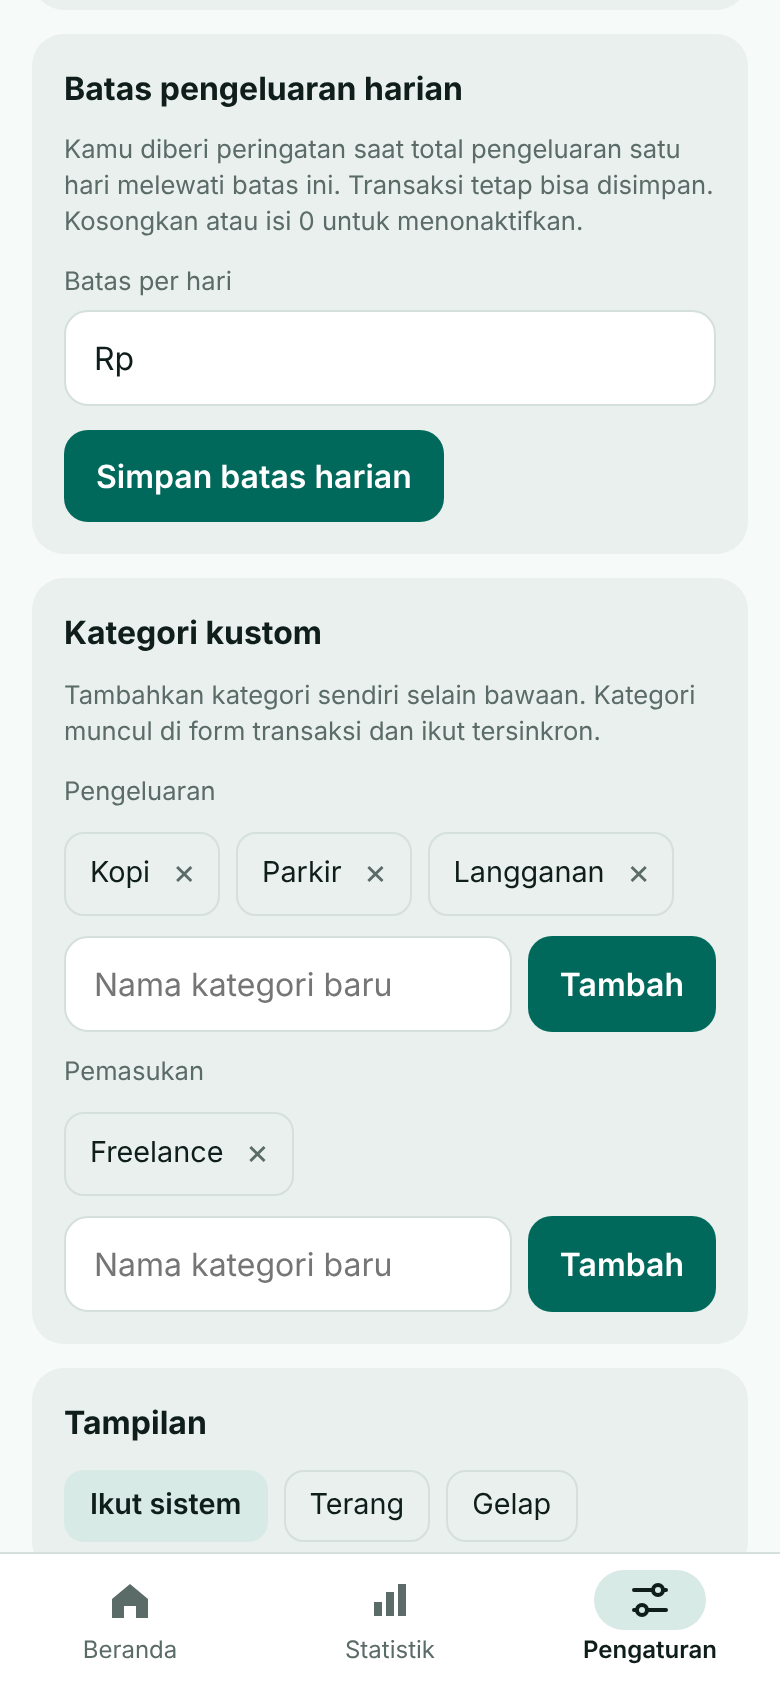
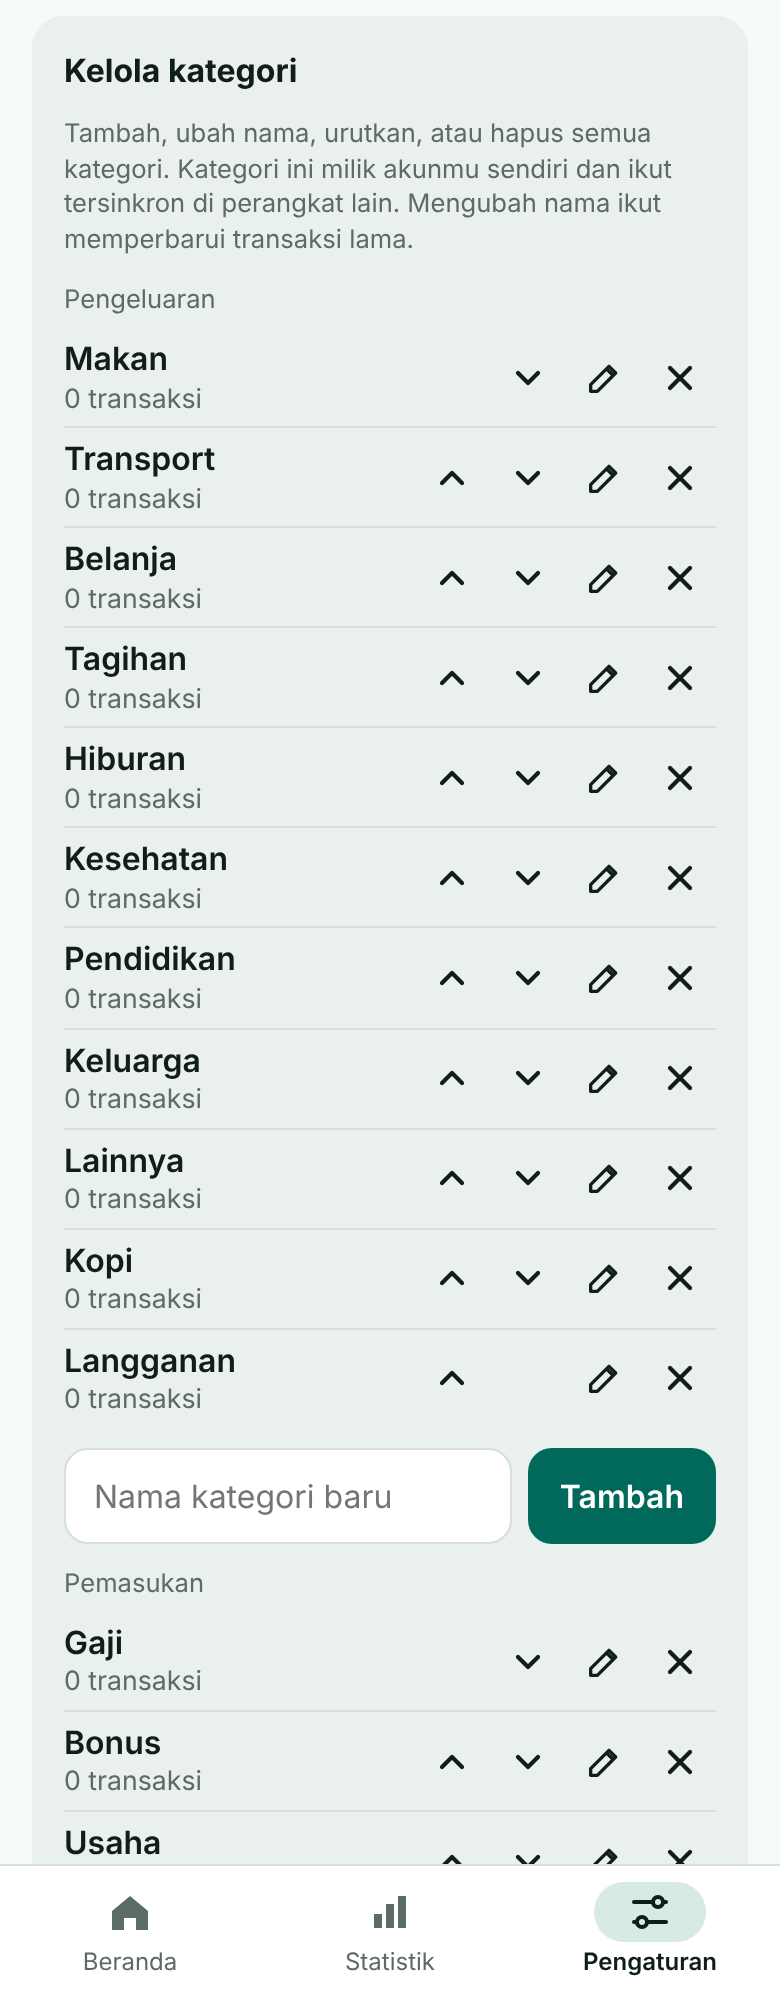
Kelola semua kategori per akun: ubah nama, urutkan, hapus bawaan; isolasi per user
Claude-Session: https://claude.ai/code/session_01PoaaqTZ6TSVxPmi1eVRVKY

diff --git a/app.js b/app.js
@@ -12,7 +12,7 @@ const BASE_CATEGORIES = {
   INCOME: ['Gaji', 'Bonus', 'Usaha', 'Investasi', 'Lainnya']
 };
 
-const MAX_CUSTOM = 20;     // maksimal kategori kustom per jenis
+const MAX_CATS = 30;       // maksimal kategori per jenis
 const MAX_CAT_LEN = 20;    // maksimal panjang nama kategori
 
 const MONTHS = ['Januari', 'Februari', 'Maret', 'April', 'Mei', 'Juni', 'Juli', 'Agustus', 'September', 'Oktober', 'November', 'Desember'];
@@ -25,6 +25,10 @@ const ICONS = {
   settings: '<g fill="none" stroke="currentColor" stroke-width="2" stroke-linecap="round"><path d="M4 7h9M19 7h1M4 17h1M11 17h9"/><circle cx="16" cy="7" r="2.5"/><circle cx="8" cy="17" r="2.5"/></g>',
   plus: '<path d="M12 5v14M5 12h14" fill="none" stroke="currentColor" stroke-width="2.5" stroke-linecap="round"/>',
   left: '<path d="M15 6l-6 6 6 6" fill="none" stroke="currentColor" stroke-width="2.5" stroke-linecap="round" stroke-linejoin="round"/>',
+  up: '<path d="M6 15l6-6 6 6" fill="none" stroke="currentColor" stroke-width="2.5" stroke-linecap="round" stroke-linejoin="round"/>',
+  down: '<path d="M6 9l6 6 6-6" fill="none" stroke="currentColor" stroke-width="2.5" stroke-linecap="round" stroke-linejoin="round"/>',
+  edit: '<path d="M4 20h4L19 9l-4-4L4 16zM13.5 6.5l4 4" fill="none" stroke="currentColor" stroke-width="2" stroke-linecap="round" stroke-linejoin="round"/>',
+  close: '<path d="M6 6l12 12M18 6L6 18" fill="none" stroke="currentColor" stroke-width="2.5" stroke-linecap="round"/>',
   right: '<path d="M9 6l6 6-6 6" fill="none" stroke="currentColor" stroke-width="2.5" stroke-linecap="round" stroke-linejoin="round"/>'
 };
 const icon = (name) => '<svg class="i" viewBox="0 0 24 24" aria-hidden="true">' + ICONS[name] + '</svg>';
@@ -66,32 +70,52 @@ function uuid() {
 }
 
 let transactions = store.load('kk.tx', []);
-const defaultSettings = () => ({ budget: 0, dailyLimit: 0, openingBalance: 0, theme: 'system', customCats: { EXPENSE: [], INCOME: [] } });
-let settings = normalizeSettings(Object.assign(defaultSettings(), store.load('kk.settings', {})));
+const defaultCats = () => ({ EXPENSE: BASE_CATEGORIES.EXPENSE.slice(), INCOME: BASE_CATEGORIES.INCOME.slice() });
+const defaultSettings = () => ({ budget: 0, dailyLimit: 0, openingBalance: 0, theme: 'system', cats: defaultCats() });
+let settings = (() => {
+  const stored = store.load('kk.settings', {});
+  const base = defaultSettings();
+  if (!stored.cats) delete base.cats; // data versi lama (customCats) dimigrasi di normalizeSettings
+  const st = normalizeSettings(Object.assign(base, stored));
+  if (Object.keys(stored).length && !stored.cats) store.save('kk.settings', st); // simpan hasil migrasi
+  return st;
+})();
 
 function cleanCatList(list) {
   const out = [];
   (Array.isArray(list) ? list : []).forEach((n) => {
-    const name = String(n || '').trim().slice(0, MAX_CAT_LEN);
+    const name = String(n || '').trim().replace(/\s+/g, ' ').slice(0, MAX_CAT_LEN);
     if (name && !out.some((x) => x.toLowerCase() === name.toLowerCase())) out.push(name);
   });
-  return out.slice(0, MAX_CUSTOM);
+  return out.slice(0, MAX_CATS);
 }
 function normalizeSettings(st) {
   st.openingBalance = Math.max(0, Number(st.openingBalance) || 0);
-  const c = st.customCats || {};
-  st.customCats = { EXPENSE: cleanCatList(c.EXPENSE), INCOME: cleanCatList(c.INCOME) };
+  if (!st.cats) {
+    // Migrasi dari versi lama: kategori bawaan + kategori kustom ("Lainnya" tetap di akhir)
+    const c = st.customCats || {};
+    const merge = (t) => BASE_CATEGORIES[t].filter((x) => x !== 'Lainnya').concat(cleanCatList(c[t])).concat('Lainnya');
+    st.cats = { EXPENSE: merge('EXPENSE'), INCOME: merge('INCOME') };
+  }
+  delete st.customCats;
+  const d = defaultCats();
+  const exp = cleanCatList(st.cats.EXPENSE);
+  const inc = cleanCatList(st.cats.INCOME);
+  st.cats = { EXPENSE: exp.length ? exp : d.EXPENSE, INCOME: inc.length ? inc : d.INCOME };
   return st;
 }
-const hasCustomCats = () => settings.customCats.EXPENSE.length + settings.customCats.INCOME.length > 0;
-const hasSettings = () => settings.budget > 0 || settings.openingBalance > 0 || settings.dailyLimit > 0 || settings.theme !== 'system' || hasCustomCats();
+// Kategori milik akun: dibaca dari kolom custom_categories ({ v: 2, EXPENSE, INCOME }, atau format lama berisi kategori tambahan saja)
+function catsFromServer(obj) {
+  if (obj && obj.v === 2) return normalizeSettings({ cats: { EXPENSE: obj.EXPENSE, INCOME: obj.INCOME } }).cats;
+  return normalizeSettings({ customCats: obj || {} }).cats;
+}
+const catsChanged = () => JSON.stringify(settings.cats) !== JSON.stringify(defaultCats());
+const hasSettings = () => settings.budget > 0 || settings.openingBalance > 0 || settings.dailyLimit > 0 || settings.theme !== 'system' || catsChanged();
 
-// Daftar kategori bawaan + kustom. "Lainnya" selalu di paling akhir.
+// Daftar kategori milik pengguna. `extra` = kategori transaksi lama yang sudah tidak ada di daftar (tetap ditampilkan saat mengubah transaksi).
 function categoriesFor(type, extra) {
-  const base = BASE_CATEGORIES[type].filter((c) => c !== 'Lainnya');
-  const all = base.concat(settings.customCats[type]);
-  if (extra && extra !== 'Lainnya' && !all.some((c) => c.toLowerCase() === extra.toLowerCase())) all.push(extra);
-  all.push('Lainnya');
+  const all = settings.cats[type].slice();
+  if (extra && !all.some((c) => c.toLowerCase() === extra.toLowerCase())) all.push(extra);
   return all;
 }
 const ui = { tab: 'home', view: store.load('kk.view', 'month') === 'day' ? 'day' : 'month', month: currentMonthIndex(), day: Date.now(), filter: 'all', query: '' };
@@ -836,28 +860,69 @@ document.addEventListener('click', (e) => {
       if (!name) { toast('Tulis nama kategori dulu'); break; }
       if (name.length > MAX_CAT_LEN) { toast('Maksimal ' + MAX_CAT_LEN + ' karakter'); break; }
       if (categoriesFor(type).some((c) => c.toLowerCase() === name.toLowerCase())) { toast('Kategori sudah ada'); break; }
-      if (settings.customCats[type].length >= MAX_CUSTOM) { toast('Maksimal ' + MAX_CUSTOM + ' kategori kustom'); break; }
-      settings.customCats[type].push(name);
+      if (settings.cats[type].length >= MAX_CATS) { toast('Maksimal ' + MAX_CATS + ' kategori per jenis'); break; }
+      settings.cats[type].push(name);
       saveSettings();
       render();
       toast('Kategori ditambahkan');
       break;
     }
+    case 'rename-cat': {
+      const type = el.dataset.type === IN ? IN : OUT;
+      const old = el.dataset.value;
+      const input = prompt('Ubah nama kategori "' + old + '". Transaksi lama dengan kategori ini ikut berubah.', old);
+      if (input === null) break;
+      const name = input.trim().replace(/\s+/g, ' ');
+      if (!name) { toast('Nama tidak boleh kosong'); break; }
+      if (name.length > MAX_CAT_LEN) { toast('Maksimal ' + MAX_CAT_LEN + ' karakter'); break; }
+      if (name === old) break;
+      if (settings.cats[type].some((c) => c !== old && c.toLowerCase() === name.toLowerCase())) { toast('Kategori sudah ada'); break; }
+      settings.cats[type] = settings.cats[type].map((c) => (c === old ? name : c));
+      let n = 0;
+      transactions.forEach((t) => {
+        if (t.type === type && t.category === old) { t.category = name; queueUpsert(t.id); n++; }
+      });
+      if (n) saveTx();
+      saveSettings();
+      render();
+      toast('Kategori diubah' + (n ? ' (' + n + ' transaksi ikut diperbarui)' : ''));
+      break;
+    }
+    case 'move-cat': {
+      const type = el.dataset.type === IN ? IN : OUT;
+      const list = settings.cats[type];
+      const i = list.indexOf(el.dataset.value);
+      const j = el.dataset.dir === 'up' ? i - 1 : i + 1;
+      if (i < 0 || j < 0 || j >= list.length) break;
+      [list[i], list[j]] = [list[j], list[i]];
+      saveSettings();
+      render();
+      break;
+    }
     case 'del-cat': {
       const type = el.dataset.type === IN ? IN : OUT;
       const name = el.dataset.value;
+      if (settings.cats[type].length <= 1) { toast('Minimal harus ada satu kategori'); break; }
       const used = transactions.filter((t) => t.type === type && t.category === name).length;
       const msg = used
         ? 'Hapus kategori "' + name + '"? ' + used + ' transaksi lama tetap memakai nama ini, hanya tidak muncul lagi sebagai pilihan.'
         : 'Hapus kategori "' + name + '"?';
       if (confirm(msg)) {
-        settings.customCats[type] = settings.customCats[type].filter((c) => c !== name);
+        settings.cats[type] = settings.cats[type].filter((c) => c !== name);
         saveSettings();
         render();
         toast('Kategori dihapus');
       }
       break;
     }
+    case 'reset-cats':
+      if (confirm('Kembalikan semua kategori ke bawaan? Transaksi tidak berubah.')) {
+        settings.cats = defaultCats();
+        saveSettings();
+        render();
+        toast('Kategori dikembalikan ke bawaan');
+      }
+      break;
     case 'save-daily':
       settings.dailyLimit = parseMoney($('#daily-input').value);
       saveSettings();
@@ -1070,7 +1135,7 @@ async function flushOutbox() {
         user_id: user.id,
         budget: settings.budget || 0,
         daily_limit: settings.dailyLimit || 0,
-        custom_categories: settings.customCats,
+        custom_categories: Object.assign({ v: 2 }, settings.cats),
         opening_balance: settings.openingBalance || 0,
         theme: settings.theme || 'system',
         updated_at: new Date().toISOString()
@@ -1122,9 +1187,8 @@ async function pullAll() {
       settings.budget = Number(srv[0].budget) || 0;
       if ('daily_limit' in srv[0]) settings.dailyLimit = Number(srv[0].daily_limit) || 0;
       if ('opening_balance' in srv[0]) settings.openingBalance = Math.max(0, Number(srv[0].opening_balance) || 0);
-      if (srv[0].custom_categories && typeof srv[0].custom_categories === 'object') {
-        settings.customCats = normalizeSettings({ customCats: srv[0].custom_categories }).customCats;
-      }
+      // Kategori milik akun ini; akun baru (kolom kosong) mendapat kategori bawaan, bukan sisa akun lain
+      if ('custom_categories' in srv[0]) settings.cats = catsFromServer(srv[0].custom_categories);
       settings.theme = srv[0].theme || 'system';
       store.save('kk.settings', settings);
       applyTheme();
@@ -1435,18 +1499,23 @@ function dailyLimitCard() {
 
 function categoryCard() {
   const block = (type, title) => {
-    const list = settings.customCats[type];
+    const list = settings.cats[type];
+    const count = (name) => transactions.filter((t) => t.type === type && t.category === name).length;
+    const btn = (action, ic, label, name, extra) =>
+      '<button class="icon-btn sm" aria-label="' + label + ' ' + esc(name) + '" data-action="' + action + '" data-type="' + type + '" data-value="' + esc(name) + '"' + (extra || '') + '>' + icon(ic) + '</button>';
     return '<div class="field"><span>' + title + '</span>' +
-      (list.length
-        ? '<div class="chips">' + list.map((c) =>
-            '<span class="chip tag">' + esc(c) + '<button class="x" aria-label="Hapus kategori ' + esc(c) + '" data-action="del-cat" data-type="' + type + '" data-value="' + esc(c) + '">&times;</button></span>').join('') + '</div>'
-        : '<div class="small muted">Belum ada kategori kustom.</div>') +
+      list.map((c, i) =>
+        '<div class="cat-row"><span class="grow"><b>' + esc(c) + '</b><small>' + count(c) + ' transaksi</small></span>' +
+        (i > 0 ? btn('move-cat', 'up', 'Naikkan', c, ' data-dir="up"') : '<span class="icon-sp"></span>') +
+        (i < list.length - 1 ? btn('move-cat', 'down', 'Turunkan', c, ' data-dir="down"') : '<span class="icon-sp"></span>') +
+        btn('rename-cat', 'edit', 'Ubah nama', c) + btn('del-cat', 'close', 'Hapus', c) + '</div>').join('') +
       '<div class="add-cat"><input class="input" id="newcat-' + type + '" maxlength="' + MAX_CAT_LEN + '" placeholder="Nama kategori baru" autocomplete="off">' +
       '<button class="btn" data-action="add-cat" data-type="' + type + '">Tambah</button></div></div>';
   };
-  return '<div class="card"><h2>Kategori kustom</h2>' +
-    '<div class="muted small">Tambahkan kategori sendiri selain bawaan. Kategori muncul di form transaksi dan ikut tersinkron.</div>' +
-    block(OUT, 'Pengeluaran') + block(IN, 'Pemasukan') + '</div>';
+  return '<div class="card"><h2>Kelola kategori</h2>' +
+    '<div class="muted small">Tambah, ubah nama, urutkan, atau hapus semua kategori. Kategori ini milik akunmu sendiri dan ikut tersinkron di perangkat lain. Mengubah nama ikut memperbarui transaksi lama.</div>' +
+    block(OUT, 'Pengeluaran') + block(IN, 'Pemasukan') +
+    '<div style="margin-top:12px"><button class="btn outline block" data-action="reset-cats">Kembalikan ke kategori bawaan</button></div></div>';
 }
 
 /* ---------- Mulai ---------- */

diff --git a/styles.css b/styles.css
@@ -276,3 +276,11 @@ svg.i { width: 24px; height: 24px; display: block; }
 .proj-note { display: block; font-size: 0.75rem; font-weight: 400; color: var(--muted); }
 
 .line.proj span:last-child { white-space: nowrap; }
+
+/* ---------- Kelola kategori ---------- */
+.cat-row { display: flex; align-items: center; gap: 2px; padding: 4px 0; border-top: 1px solid var(--border); }
+.cat-row:first-of-type { border-top: 0; }
+.cat-row .grow b { font-weight: 600; }
+.icon-btn.sm { width: 36px; height: 36px; flex: none; }
+.icon-btn.sm svg.i { width: 20px; height: 20px; }
+.icon-sp { width: 36px; flex: none; }

diff --git a/sw.js b/sw.js
@@ -1,7 +1,7 @@
 // Service worker: aplikasi bisa dibuka offline.
 // Strategi: ambil versi terbaru dari jaringan (maks. 4 detik); jika offline atau lambat,
 // pakai salinan di cache. Dengan begitu pembaruan langsung terlihat saat online.
-const CACHE = 'keuanganku-v11';
+const CACHE = 'keuanganku-v12';
 const ASSETS = [
   './',
   'index.html',

diff --git a/README.md b/README.md
@@ -23,7 +23,7 @@ tetap berjalan tanpa internet, dan (opsional) menyinkronkan data ke semua perang
     <td align="center"><img src="docs/screenshots/statistik-harian.png" width="220" alt="Statistik harian"><br><sub>Statistik harian</sub></td>
   </tr>
   <tr>
-    <td align="center"><img src="docs/screenshots/kategori-kustom.png" width="220" alt="Kategori kustom"><br><sub>Kategori kustom</sub></td>
+    <td align="center"><img src="docs/screenshots/kategori-kustom.png" width="220" alt="Kelola kategori"><br><sub>Kelola kategori</sub></td>
   </tr>
 </table>
 
@@ -37,7 +37,7 @@ Tangkapan layar memakai data contoh.
 - **Batas harian untuk sisa bulan** (tampilan Bulanan, bulan berjalan): menampilkan sisa hari di bulan itu (termasuk hari ini), **rekomendasi anggaran harian** (saldo saat ini dibagi sisa hari), dan saldo cukup untuk berapa hari bila memakai batas harian dari Pengaturan (lengkap dengan tanggal saldo habis).
 - **Anggaran bulanan** dengan progress bar yang berubah warna saat mendekati batas.
 - **Batas pengeluaran harian:** kartu "hari ini", petunjuk sisa batas saat mengisi transaksi, peringatan saat melewati batas, dan penanda hari yang melewati batas. Ada saran batas dari anggaran bulanan.
-- **Kategori kustom:** tambah dan hapus kategori sendiri (pengeluaran dan pemasukan) di Pengaturan, maksimal 20 per jenis dan 20 karakter per nama. Tampil di form transaksi sebelum "Lainnya", ikut statistik, dan ikut tersinkron. Menghapus kategori tidak mengubah transaksi lama.
+- **Kelola kategori (milik akun):** semua kategori, termasuk yang bawaan, bisa ditambah, diubah namanya, diurutkan, atau dihapus (pengeluaran dan pemasukan, minimal satu per jenis, maksimal 30 per jenis dan 20 karakter per nama). Mengubah nama ikut memperbarui transaksi lama; menghapus kategori tidak menghapus transaksi. Ada tombol untuk mengembalikan ke kategori bawaan. Daftar kategori disimpan per akun dan tersinkron antar perangkat; akun lain di perangkat yang sama tidak melihatnya.
 - **Statistik bulanan dan harian:** pilih Bulanan atau Harian. Tampilan harian berisi ringkasan hari (saldo awal/akhir, jumlah transaksi, pengeluaran terbesar, perbandingan dengan rata-rata harian bulan itu, sisa batas harian), grafik 7 hari terakhir, dan pengeluaran per kategori hari itu. Tampilan bulanan: ringkasan bulan, rasio tabungan, jumlah hari melewati batas, grafik 6 bulan, dan pengeluaran per kategori.
 - **Data:** ekspor dan impor CSV (format sama dengan versi Android), bagikan ringkasan bulanan.
 - **Tema:** terang, gelap, atau ikut sistem.
@@ -64,14 +64,14 @@ Aplikasi berjalan dalam mode lokal selama `config.js` kosong. Untuk mengaktifkan
 3. Isi `config.js` dengan **Project URL** dan kunci **anon/publishable**.
 4. Commit dan push. Aplikasi akan menampilkan layar login.
 
-**Database sudah dibuat sebelumnya?** Kategori kustom dan saldo awal butuh dua kolom tambahan. Jalankan di SQL Editor:
+**Database sudah dibuat sebelumnya?** Daftar kategori per akun dan saldo awal butuh dua kolom tambahan (kolom `custom_categories` menyimpan seluruh daftar kategori akun). Jalankan di SQL Editor:
 
 ```sql
 alter table public.user_settings add column if not exists custom_categories jsonb not null default '{}'::jsonb;
 alter table public.user_settings add column if not exists opening_balance bigint not null default 0;
 ```
 
-Tanpa kolom ini aplikasi tetap jalan, hanya kategori kustom dan saldo awal tidak tersinkron antar perangkat.
+Tanpa kolom ini aplikasi tetap jalan, hanya daftar kategori dan saldo awal tidak tersinkron antar perangkat. Data kategori versi lama (kategori tambahan saja) otomatis dimigrasi.
 
 **Cara kerja:** offline-first. Aplikasi selalu membaca dari data di perangkat. Setiap perubahan masuk ke antrean
 dan dikirim saat online, lalu data terbaru ditarik dari server. Perubahan yang belum terkirim tidak tertimpa.
